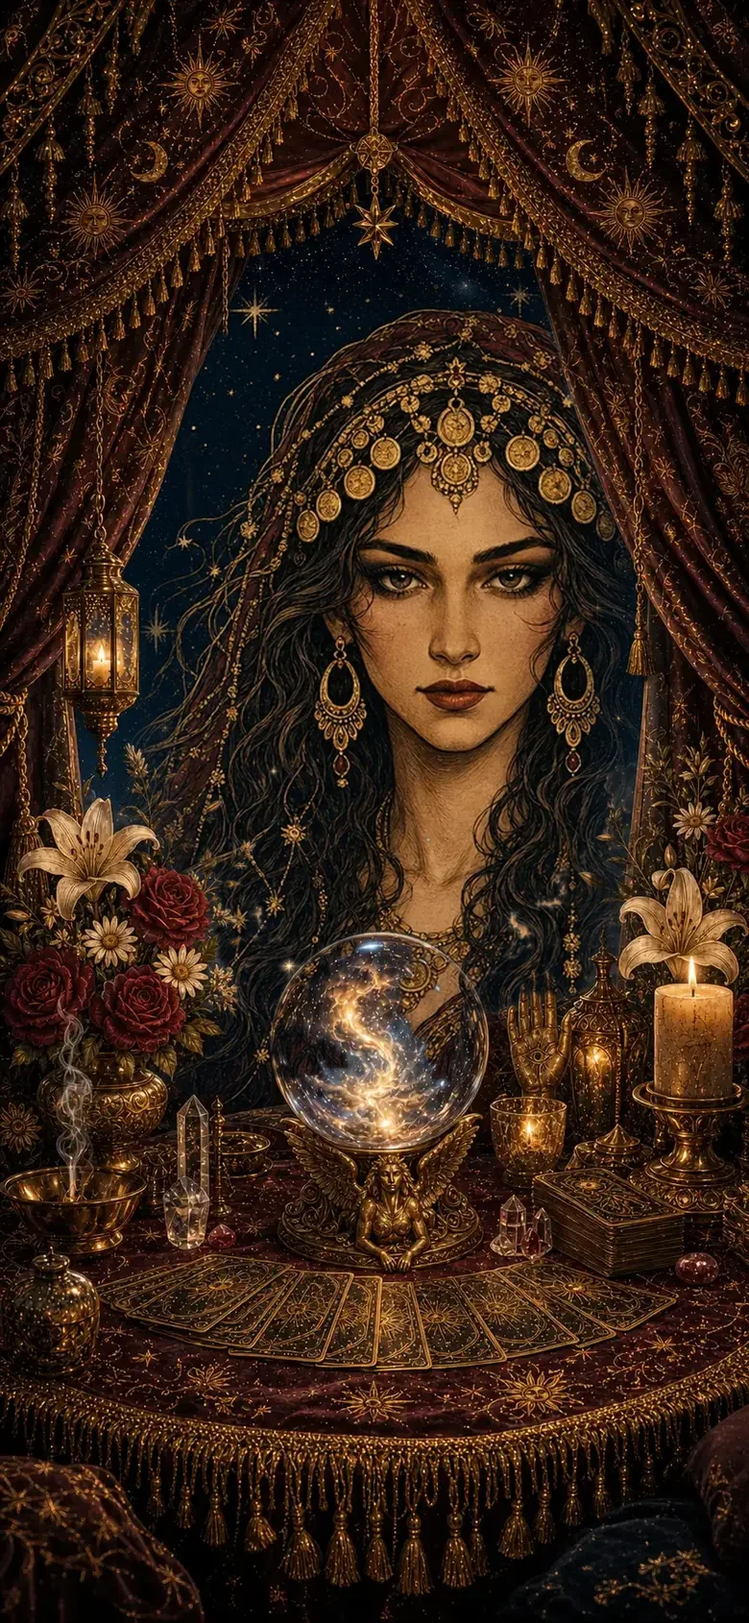
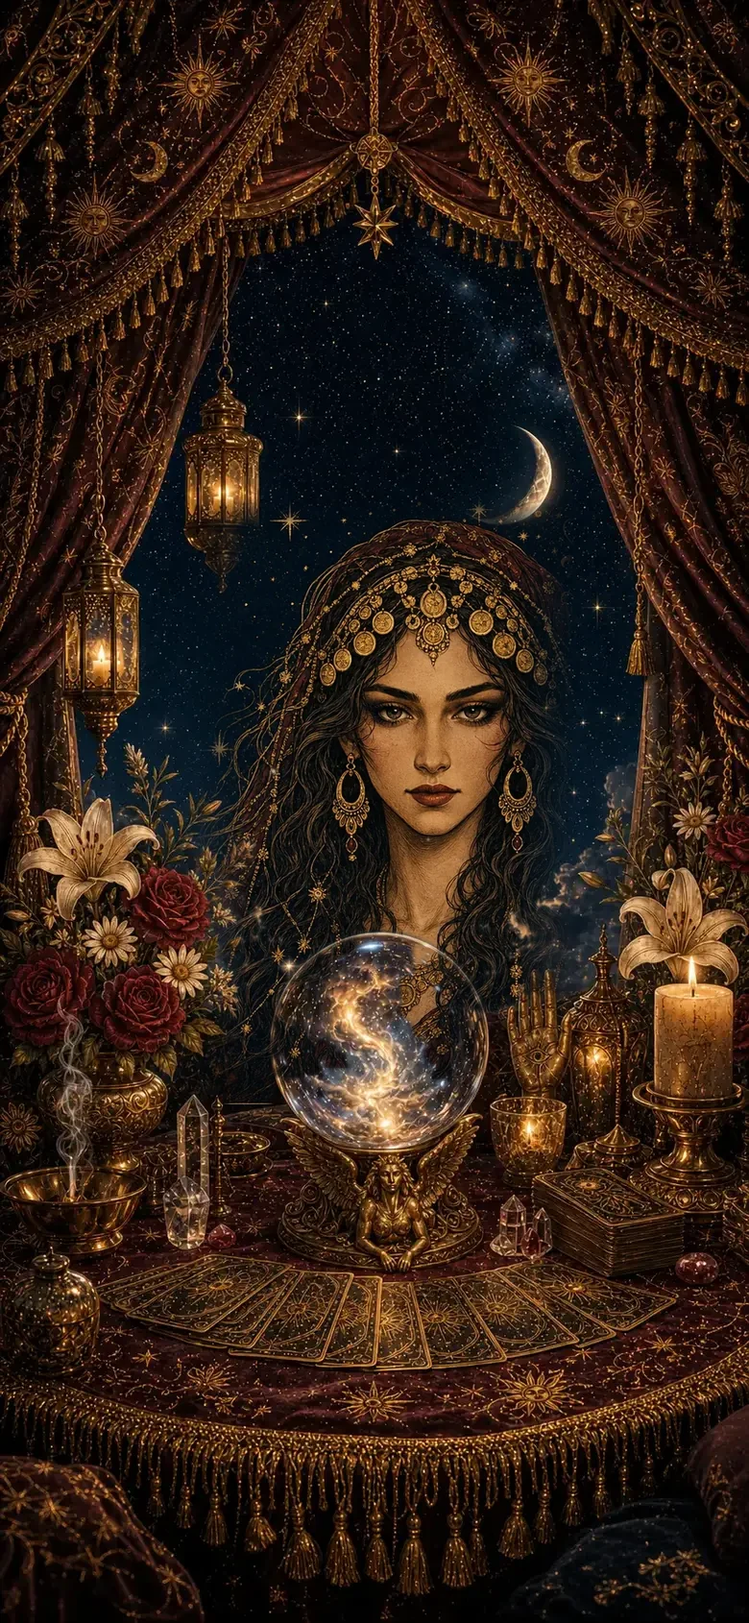
Kassandra with her hands on the crystal ball (art/atlas/kas-scene2), the ball's light and gleam set on it; the fog made magical: drifting lilac and gold mist with an iridescent shimmer, rising gold glitter and flaring stars, and a slower parting

Changed region(s): [[0.1846, 0.1538, 0.8308, 0.6769]]

diff --git a/public/art/sizes.js b/public/art/sizes.js
@@ -1,2 +1,2 @@
 /* generated by scripts/asset-manifest.mjs: [width, height, alpha] of every image under /art */
-window.KOSMIA_SIZES={"atlas/acct-foot":[850,295,0],"atlas/acct-mid":[850,120,0],"atlas/acct-night":[850,1475,0],"atlas/acct-top":[850,511,0],"atlas/affinity-bg":[780,1386,0],"atlas/aw-clouds":[960,134,1],"atlas/aw-foot":[850,1004,0],"atlas/aw-top":[1269,846,0],"atlas/banner-calendar":[760,506,0],"atlas/banner-library":[760,506,0],"atlas/birth-bg":[780,1690,0],"atlas/cal-scene":[1100,733,0],"atlas/calendar-bg":[780,1690,0],"atlas/ce-vignette":[480,720,0],"atlas/chart-bg":[780,1698,0],"atlas/cycles-bg":[780,1690,0],"atlas/disc-night":[898,1752,0],"atlas/dream-bg":[780,1690,0],"atlas/dream-night":[941,1672,0],"atlas/dreamjournal-bg":[780,1690,0],"atlas/ds-death":[560,560,0],"atlas/ds-flying":[560,560,0],"atlas/ds-house":[560,560,0],"atlas/ds-snake":[560,560,0],"atlas/ds-water":[560,560,0],"atlas/ev-eclipse":[720,480,0],"atlas/ev-full":[720,480,0],"atlas/ev-meteor":[720,480,0],"atlas/ev-new":[720,480,0],"atlas/ev-planet":[720,480,0],"atlas/ev-quarter":[720,480,0],"atlas/ev-sun":[720,480,0],"atlas/events-bg":[780,1690,0],"atlas/ex-chart":[560,560,0],"atlas/ex-compat":[560,560,0],"atlas/ex-lifepath":[560,560,0],"atlas/ex-name":[560,560,0],"atlas/ex-resonance":[560,560,0],"atlas/fg-aquarius":[1024,1024,1],"atlas/fg-aries":[1024,1024,1],"atlas/fg-cancer":[1024,1024,1],"atlas/fg-capricorn":[1024,1024,1],"atlas/fg-gemini":[1024,1024,1],"atlas/fg-leo":[1024,1024,1],"atlas/fg-libra":[1024,1024,1],"atlas/fg-pisces":[1024,1024,1],"atlas/fg-sagittarius":[1024,1024,1],"atlas/fg-scorpio":[1024,1024,1],"atlas/fg-taurus":[1024,1024,1],"atlas/fg-virgo":[1024,1024,1],"atlas/hero-affinity":[1100,733,0],"atlas/hero-chart":[1100,733,0],"atlas/hero-discover":[1024,1024,0],"atlas/hero-dream":[1100,733,0],"atlas/hero-horoscope":[1024,1024,0],"atlas/hero-insights":[1100,733,0],"atlas/hero-journal":[1024,1024,0],"atlas/hero-lifepath":[1100,733,0],"atlas/hero-name":[1100,733,0],"atlas/hero-tarot":[1024,1024,0],"atlas/history-bg":[780,1698,0],"atlas/hland-night":[850,1850,0],"atlas/home-bar":[1200,321,0],"atlas/home-bay":[941,1672,0],"atlas/home-energy":[1200,800,0],"atlas/home-garden":[720,1080,0],"atlas/home-halo":[560,560,1],"atlas/home-lake":[720,1080,0],"atlas/home-night":[720,1619,0],"atlas/home-night2":[850,1850,0],"atlas/home-sky":[1024,1536,0],"atlas/home-sun":[960,640,0],"atlas/home-vines":[720,1080,0],"atlas/hsh-aquarius":[1100,733,0],"atlas/hsh-aries":[1100,733,0],"atlas/hsh-cancer":[1100,733,0],"atlas/hsh-capricorn":[1100,733,0],"atlas/hsh-gemini":[1100,733,0],"atlas/hsh-leo":[1100,733,0],"atlas/hsh-libra":[1100,733,0],"atlas/hsh-pisces":[1100,733,0],"atlas/hsh-sagittarius":[1100,733,0],"atlas/hsh-scorpio":[1100,733,0],"atlas/hsh-taurus":[1100,733,0],"atlas/hsh-virgo":[1100,733,0],"atlas/hsp-garland-l":[520,1720,1],"atlas/hsp-garland-r":[520,1720,1],"atlas/hsp-lily":[520,1600,1],"atlas/hsp-vine":[210,560,1],"atlas/hz-career":[360,360,1],"atlas/hz-family":[360,360,1],"atlas/hz-health":[360,360,1],"atlas/hz-love":[360,360,1],"atlas/hz-money":[360,360,1],"atlas/hz-overview":[360,360,1],"atlas/ico-career":[275,320,1],"atlas/ico-family":[270,320,1],"atlas/ico-health":[281,320,1],"atlas/ico-love":[319,320,1],"atlas/ico-money":[262,320,1],"atlas/ico-overview":[282,320,1],"atlas/jcal-bg":[780,1690,0],"atlas/jen-mid":[850,1120,0],"atlas/jen-night":[850,1850,0],"atlas/journal-bg":[780,1698,0],"atlas/journal-end":[640,960,0],"atlas/jrn-mid":[850,1580,0],"atlas/jrn-night":[850,1850,0],"atlas/kas-scene":[780,1690,0],"atlas/kassandra-banner":[1100,733,0],"atlas/kassandra-bg":[780,1690,0],"atlas/kassandra":[760,760,0],"atlas/landscape":[1100,733,0],"atlas/library-bg":[780,1690,0],"atlas/lifepath-bg":[780,1690,0],"atlas/med-aquarius":[560,560,0],"atlas/med-aries":[560,560,0],"atlas/med-cancer":[560,560,0],"atlas/med-capricorn":[560,560,0],"atlas/med-gemini":[560,560,0],"atlas/med-leo":[560,560,0],"atlas/med-libra":[560,560,0],"atlas/med-pisces":[560,560,0],"atlas/med-sagittarius":[560,560,0],"atlas/med-scorpio":[560,560,0],"atlas/med-taurus":[560,560,0],"atlas/med-virgo":[560,560,0],"atlas/moon-bg":[780,1698,0],"atlas/name-bg":[780,1690,0],"atlas/nav-discover":[314,320,1],"atlas/nav-home":[267,320,1],"atlas/nav-horoscope":[295,320,1],"atlas/nav-kassandra":[319,320,1],"atlas/nav-tarot":[270,320,1],"atlas/ne-card":[230,320,1],"atlas/ne-free":[269,320,1],"atlas/newdream-bg":[780,1690,0],"atlas/nvi-discover":[512,512,1],"atlas/nvi-home":[512,512,1],"atlas/nvi-horoscope":[512,512,1],"atlas/nvi-kassandra":[512,512,1],"atlas/nvi-tarot":[512,512,1],"atlas/nvm-discover":[160,160,1],"atlas/nvm-home":[160,160,1],"atlas/nvm-horoscope":[160,160,1],"atlas/nvm-kassandra":[160,160,1],"atlas/nvm-tarot":[160,160,1],"atlas/ob-crescent":[1200,800,0],"atlas/ob-final":[1200,800,0],"atlas/ob-intro2":[850,1850,0],"atlas/ob-sunset-blooms":[960,1440,1],"atlas/ob-sunset":[960,1440,0],"atlas/ob-welcome":[1024,1536,0],"atlas/ob-welcome2":[851,1849,0],"atlas/ob-woman":[1200,800,0],"atlas/obm-dream":[192,192,0],"atlas/obm-moon":[192,192,0],"atlas/obm-star":[192,192,0],"atlas/obm-sun":[192,192,0],"atlas/obm-tarot":[192,192,0],"atlas/owl":[1100,733,0],"atlas/planets-bg":[780,1698,0],"atlas/plate-aquarius":[640,960,0],"atlas/plate-aries":[640,960,0],"atlas/plate-cancer":[640,960,0],"atlas/plate-capricorn":[640,960,0],"atlas/plate-gemini":[640,960,0],"atlas/plate-leo":[640,960,0],"atlas/plate-libra":[640,960,0],"atlas/plate-pisces":[640,960,0],"atlas/plate-sagittarius":[640,960,0],"atlas/plate-scorpio":[640,960,0],"atlas/plate-taurus":[640,960,0],"atlas/plate-virgo":[640,960,0],"atlas/profile-bg":[780,1698,0],"atlas/reading-bg":[780,1698,0],"atlas/reading-night":[850,1850,0],"atlas/resonance-bg":[780,1698,0],"atlas/settings-bg":[780,1690,0],"atlas/sgm-aquarius":[320,320,1],"atlas/sgm-aries":[320,320,1],"atlas/sgm-cancer":[320,320,1],"atlas/sgm-capricorn":[320,320,1],"atlas/sgm-gemini":[320,320,1],"atlas/sgm-leo":[320,320,1],"atlas/sgm-libra":[320,320,1],"atlas/sgm-pisces":[320,320,1],"atlas/sgm-sagittarius":[320,320,1],"atlas/sgm-scorpio":[320,320,1],"atlas/sgm-taurus":[320,320,1],"atlas/sgm-virgo":[320,320,1],"atlas/sgmw-cancer":[354,258,1],"atlas/sgmw-capricorn":[444,214,1],"atlas/sign-mid":[849,1580,0],"atlas/sign-night":[850,1850,0],"atlas/sign-sky":[849,1853,0],"atlas/synastry-bg":[780,1690,0],"atlas/t-history":[307,320,1],"atlas/t-journal":[315,320,1],"atlas/t-reading":[269,320,1],"atlas/t-whisper":[315,320,1],"atlas/tarot-night":[850,1850,0],"atlas/wb-foot":[850,341,0],"atlas/wb-mid":[850,120,0],"atlas/wb-night":[850,1475,0],"atlas/wb-sun":[1400,933,0],"atlas/wb-top":[850,538,0],"atlas/welcome":[640,960,0],"atlas/whisper-bg":[780,1698,0],"atlas/zm-aquarius":[400,400,0],"atlas/zm-aries":[400,400,0],"atlas/zm-cancer":[400,400,0],"atlas/zm-capricorn":[400,400,0],"atlas/zm-gemini":[400,400,0],"atlas/zm-leo":[400,400,0],"atlas/zm-libra":[400,400,0],"atlas/zm-pisces":[400,400,0],"atlas/zm-sagittarius":[400,400,0],"atlas/zm-scorpio":[400,400,0],"atlas/zm-taurus":[400,400,0],"atlas/zm-virgo":[400,400,0],"atlas/zs-bg":[780,1698,0],"atlas/zs-night":[850,1850,0],"cards/back":[600,900,0],"cards/cartouche":[640,640,1],"cards/crest":[144,67,1],"cards/kassandra-float":[278,300,1],"cards/kassandra":[480,480,0],"cards/ornament":[144,53,1],"cards/plaque":[1024,432,1],"cards/tarot-back-night":[600,900,0],"cards/tarot-back-wine":[600,900,0],"cards/tarot-back":[600,900,1],"cats/aspects":[160,160,1],"cats/calendar":[160,160,1],"cats/career":[160,160,1],"cats/chart":[160,160,1],"cats/collection":[160,160,1],"cats/connections":[160,160,1],"cats/cycles":[160,160,1],"cats/deck":[160,160,1],"cats/family":[160,160,1],"cats/finance":[160,160,1],"cats/general":[160,160,1],"cats/health":[160,160,1],"cats/history":[160,160,1],"cats/insights":[160,160,1],"cats/lifepath":[160,160,1],"cats/love":[160,160,1],"cats/match":[160,160,1],"cats/moon":[160,160,1],"cats/namewithin":[160,160,1],"cats/new":[160,160,1],"cats/notifications":[160,160,1],"cats/planetary":[160,160,1],"cats/planets":[160,160,1],"cats/prefs":[160,160,1],"cats/privacy":[160,160,1],"cats/profile":[160,160,1],"cats/reflections":[160,160,1],"cats/resonance":[160,160,1],"cats/saved":[160,160,1],"cats/settings":[160,160,1],"cats/spreads":[160,160,1],"cats/today":[160,160,1],"cats/upcoming":[160,160,1],"cosmos":[768,1152,0],"deck/c1":[720,1080,0],"deck/c10":[720,1080,0],"deck/c11":[720,1080,0],"deck/c12":[720,1080,0],"deck/c13":[720,1080,0],"deck/c14":[720,1080,0],"deck/c2":[720,1080,0],"deck/c3":[720,1080,0],"deck/c4":[720,1080,0],"deck/c5":[720,1080,0],"deck/c6":[720,1080,0],"deck/c7":[720,1080,0],"deck/c8":[720,1080,0],"deck/c9":[720,1080,0],"deck/m0":[720,1080,0],"deck/m1":[720,1080,0],"deck/m10":[720,1080,0],"deck/m11":[720,1080,0],"deck/m12":[720,1080,0],"deck/m13":[720,1080,0],"deck/m14":[720,1080,0],"deck/m15":[720,1080,0],"deck/m16":[720,1080,0],"deck/m17":[720,1080,0],"deck/m18":[720,1080,0],"deck/m19":[720,1080,0],"deck/m2":[720,1080,0],"deck/m20":[720,1080,0],"deck/m21":[720,1080,0],"deck/m3":[720,1080,0],"deck/m4":[720,1080,0],"deck/m5":[720,1080,0],"deck/m6":[720,1080,0],"deck/m7":[720,1080,0],"deck/m8":[720,1080,0],"deck/m9":[720,1080,0],"deck/p1":[720,1080,0],"deck/p10":[720,1080,0],"deck/p11":[720,1080,0],"deck/p12":[720,1080,0],"deck/p13":[720,1080,0],"deck/p14":[720,1080,0],"deck/p2":[720,1080,0],"deck/p3":[720,1080,0],"deck/p4":[720,1080,0],"deck/p5":[720,1080,0],"deck/p6":[720,1080,0],"deck/p7":[720,1080,0],"deck/p8":[720,1080,0],"deck/p9":[720,1080,0],"deck/s1":[720,1080,0],"deck/s10":[720,1080,0],"deck/s11":[720,1080,0],"deck/s12":[720,1080,0],"deck/s13":[720,1080,0],"deck/s14":[720,1080,0],"deck/s2":[720,1080,0],"deck/s3":[720,1080,0],"deck/s4":[720,1080,0],"deck/s5":[720,1080,0],"deck/s6":[720,1080,0],"deck/s7":[720,1080,0],"deck/s8":[720,1080,0],"deck/s9":[720,1080,0],"deck/w1":[720,1080,0],"deck/w10":[720,1080,0],"deck/w11":[720,1080,0],"deck/w12":[720,1080,0],"deck/w13":[720,1080,0],"deck/w14":[720,1080,0],"deck/w2":[720,1080,0],"deck/w3":[720,1080,0],"deck/w4":[720,1080,0],"deck/w5":[720,1080,0],"deck/w6":[720,1080,0],"deck/w7":[720,1080,0],"deck/w8":[720,1080,0],"deck/w9":[720,1080,0],"frame-paper":[944,600,0],"frame":[1024,1536,0],"icons/aquarius":[256,256,1],"icons/aries":[256,256,1],"icons/cancer":[256,256,1],"icons/capricorn":[256,256,1],"icons/gemini":[256,256,1],"icons/leo":[256,256,1],"icons/libra":[256,256,1],"icons/pisces":[256,256,1],"icons/sagittarius":[256,256,1],"icons/scorpio":[256,256,1],"icons/taurus":[256,256,1],"icons/virgo":[256,256,1],"moons/first-quarter":[420,420,1],"moons/full-moon":[420,420,1],"moons/last-quarter":[420,420,1],"moons/new-moon":[420,420,1],"moons/waning-crescent":[420,420,1],"moons/waning-gibbous":[420,420,1],"moons/waxing-crescent":[420,420,1],"moons/waxing-gibbous":[420,420,1],"nav/calendar":[128,128,1],"nav/chart":[128,128,1],"nav/fortune":[128,128,1],"nav/home":[128,128,1],"nav/horoscopes":[128,128,1],"nav/love":[128,128,1],"nav/tarot":[128,128,1],"nav/universe":[128,128,1],"onboarding-paper":[1024,234,0],"onboarding":[1024,1536,0],"pages/compass-rose":[1024,1536,0],"pages/cover":[1024,1536,0],"pages/edge-h":[768,512,0],"pages/edge-v":[512,768,0],"pages/moon-phases":[1024,1536,0],"pages/night-sky":[1024,1536,0],"pages/pressed-roses":[1024,1536,0],"pages/sleeping-moon":[1024,1536,0],"pages/sun-face":[1024,1536,0],"plates/astro":[1024,683,0],"plates/connections":[1024,683,0],"plates/cycles":[1024,683,0],"plates/events":[1024,683,0],"plates/ins-astro":[1024,683,0],"plates/ins-numbers":[1024,683,0],"plates/ins-oracle":[1024,683,0],"plates/lifepath":[1024,683,0],"plates/locket":[1024,683,0],"plates/moon":[1024,683,0],"plates/name":[1024,683,0],"plates/natal":[1024,683,0],"plates/numbers":[1024,683,0],"plates/oracle":[1024,683,0],"plates/orrery":[1024,683,0],"plates/readings":[1024,683,0],"plates/sky":[1024,683,0],"plates/starmap":[1024,683,0],"plates/sunmoon":[1024,683,0],"plates/synastry":[1024,683,0],"scenes/aquarius":[768,1152,0],"scenes/aries":[768,1152,0],"scenes/cancer":[768,1152,0],"scenes/capricorn":[768,1152,0],"scenes/gemini":[768,1152,0],"scenes/leo":[768,1152,0],"scenes/libra":[768,1152,0],"scenes/pisces":[768,1152,0],"scenes/sagittarius":[768,1152,0],"scenes/scorpio":[768,1152,0],"scenes/taurus":[768,1152,0],"scenes/virgo":[768,1152,0],"share/horo":[1080,1521,0],"share/t10":[1080,1676,0],"share/t3":[1080,1676,0],"share/t5":[1080,1671,0],"share/tarot":[1080,1521,0],"share/whisper":[1080,1517,0],"spreads/career":[192,192,1],"spreads/celtic":[192,192,1],"spreads/love":[192,192,1],"spreads/one":[192,192,1],"spreads/ppf":[192,192,1],"spreads/scg":[192,192,1],"whispers/butterfly":[720,1080,0],"whispers/clear-crystal":[720,1080,0],"whispers/crossroads":[720,1080,0],"whispers/daily-bread":[720,1080,0],"whispers/dawn-chorus":[720,1080,0],"whispers/deep-roots":[720,1080,0],"whispers/distant-ship":[720,1080,0],"whispers/fairy-ring":[720,1080,0],"whispers/first-light":[720,1080,0],"whispers/gentle-rain":[720,1080,0],"whispers/golden-hour":[720,1080,0],"whispers/golden-key":[720,1080,0],"whispers/hidden-garden":[720,1080,0],"whispers/inner-key":[720,1080,0],"whispers/late-bloom":[720,1080,0],"whispers/lighthouse":[720,1080,0],"whispers/music-box":[720,1080,0],"whispers/nightingale":[720,1080,0],"whispers/north-star":[720,1080,0],"whispers/old-tree":[720,1080,0],"whispers/open-door":[720,1080,0],"whispers/open-path":[720,1080,0],"whispers/quiet-harvest":[720,1080,0],"whispers/quiet-moon":[720,1080,0],"whispers/returning-tide":[720,1080,0],"whispers/rising-sun":[720,1080,0],"whispers/sacred-flame":[720,1080,0],"whispers/sanctuary":[720,1080,0],"whispers/sealed-letter":[720,1080,0],"whispers/silver-thread":[720,1080,0],"whispers/snow-tracks":[720,1080,0],"whispers/stargazer":[720,1080,0],"whispers/steady-star":[720,1080,0],"whispers/stepping-stones":[720,1080,0],"whispers/still-water":[720,1080,0],"whispers/the-anchor":[720,1080,0],"whispers/the-aurora":[720,1080,0],"whispers/the-balloon":[720,1080,0],"whispers/the-bell":[720,1080,0],"whispers/the-bench":[720,1080,0],"whispers/the-birdcage":[720,1080,0],"whispers/the-blossom":[720,1080,0],"whispers/the-bridge":[720,1080,0],"whispers/the-cairn":[720,1080,0],"whispers/the-chalice":[720,1080,0],"whispers/the-comet":[720,1080,0],"whispers/the-compass":[720,1080,0],"whispers/the-dandelion":[720,1080,0],"whispers/the-eclipse":[720,1080,0],"whispers/the-ember":[720,1080,0],"whispers/the-feather":[720,1080,0],"whispers/the-fox":[720,1080,0],"whispers/the-frost":[720,1080,0],"whispers/the-hare":[720,1080,0],"whispers/the-harp":[720,1080,0],"whispers/the-hearth":[720,1080,0],"whispers/the-hedgerow":[720,1080,0],"whispers/the-heron":[720,1080,0],"whispers/the-hive":[720,1080,0],"whispers/the-hourglass":[720,1080,0],"whispers/the-kingfisher":[720,1080,0],"whispers/the-kite":[720,1080,0],"whispers/the-labyrinth":[720,1080,0],"whispers/the-lantern":[720,1080,0],"whispers/the-lotus":[720,1080,0],"whispers/the-mirror":[720,1080,0],"whispers/the-moth":[720,1080,0],"whispers/the-mountain":[720,1080,0],"whispers/the-nautilus":[720,1080,0],"whispers/the-nest":[720,1080,0],"whispers/the-orchard":[720,1080,0],"whispers/the-owl":[720,1080,0],"whispers/the-phoenix":[720,1080,0],"whispers/the-pinecone":[720,1080,0],"whispers/the-pomegranate":[720,1080,0],"whispers/the-river":[720,1080,0],"whispers/the-scales":[720,1080,0],"whispers/the-seed":[720,1080,0],"whispers/the-snail":[720,1080,0],"whispers/the-snowdrop":[720,1080,0],"whispers/the-spiral":[720,1080,0],"whispers/the-stag":[720,1080,0],"whispers/the-stile":[720,1080,0],"whispers/the-sundial":[720,1080,0],"whispers/the-swan":[720,1080,0],"whispers/the-swing":[720,1080,0],"whispers/the-tapestry":[720,1080,0],"whispers/the-waterfall":[720,1080,0],"whispers/the-weaver":[720,1080,0],"whispers/the-web":[720,1080,0],"whispers/the-well":[720,1080,0],"whispers/the-whale":[720,1080,0],"whispers/the-willow":[720,1080,0],"whispers/the-wind":[720,1080,0],"whispers/turning-wheel":[720,1080,0],"whispers/two-moons":[720,1080,0],"whispers/watchful-eye":[720,1080,0],"whispers/white-lily":[720,1080,0],"whispers/wild-geese":[720,1080,0],"whispers/wild-horse":[720,1080,0]};
+window.KOSMIA_SIZES={"atlas/acct-foot":[850,295,0],"atlas/acct-mid":[850,120,0],"atlas/acct-night":[850,1475,0],"atlas/acct-top":[850,511,0],"atlas/affinity-bg":[780,1386,0],"atlas/aw-clouds":[960,134,1],"atlas/aw-foot":[850,1004,0],"atlas/aw-top":[1269,846,0],"atlas/banner-calendar":[760,506,0],"atlas/banner-library":[760,506,0],"atlas/birth-bg":[780,1690,0],"atlas/cal-scene":[1100,733,0],"atlas/calendar-bg":[780,1690,0],"atlas/ce-vignette":[480,720,0],"atlas/chart-bg":[780,1698,0],"atlas/cycles-bg":[780,1690,0],"atlas/disc-night":[898,1752,0],"atlas/dream-bg":[780,1690,0],"atlas/dream-night":[941,1672,0],"atlas/dreamjournal-bg":[780,1690,0],"atlas/ds-death":[560,560,0],"atlas/ds-flying":[560,560,0],"atlas/ds-house":[560,560,0],"atlas/ds-snake":[560,560,0],"atlas/ds-water":[560,560,0],"atlas/ev-eclipse":[720,480,0],"atlas/ev-full":[720,480,0],"atlas/ev-meteor":[720,480,0],"atlas/ev-new":[720,480,0],"atlas/ev-planet":[720,480,0],"atlas/ev-quarter":[720,480,0],"atlas/ev-sun":[720,480,0],"atlas/events-bg":[780,1690,0],"atlas/ex-chart":[560,560,0],"atlas/ex-compat":[560,560,0],"atlas/ex-lifepath":[560,560,0],"atlas/ex-name":[560,560,0],"atlas/ex-resonance":[560,560,0],"atlas/fg-aquarius":[1024,1024,1],"atlas/fg-aries":[1024,1024,1],"atlas/fg-cancer":[1024,1024,1],"atlas/fg-capricorn":[1024,1024,1],"atlas/fg-gemini":[1024,1024,1],"atlas/fg-leo":[1024,1024,1],"atlas/fg-libra":[1024,1024,1],"atlas/fg-pisces":[1024,1024,1],"atlas/fg-sagittarius":[1024,1024,1],"atlas/fg-scorpio":[1024,1024,1],"atlas/fg-taurus":[1024,1024,1],"atlas/fg-virgo":[1024,1024,1],"atlas/hero-affinity":[1100,733,0],"atlas/hero-chart":[1100,733,0],"atlas/hero-discover":[1024,1024,0],"atlas/hero-dream":[1100,733,0],"atlas/hero-horoscope":[1024,1024,0],"atlas/hero-insights":[1100,733,0],"atlas/hero-journal":[1024,1024,0],"atlas/hero-lifepath":[1100,733,0],"atlas/hero-name":[1100,733,0],"atlas/hero-tarot":[1024,1024,0],"atlas/history-bg":[780,1698,0],"atlas/hland-night":[850,1850,0],"atlas/home-bar":[1200,321,0],"atlas/home-bay":[941,1672,0],"atlas/home-energy":[1200,800,0],"atlas/home-garden":[720,1080,0],"atlas/home-halo":[560,560,1],"atlas/home-lake":[720,1080,0],"atlas/home-night":[720,1619,0],"atlas/home-night2":[850,1850,0],"atlas/home-sky":[1024,1536,0],"atlas/home-sun":[960,640,0],"atlas/home-vines":[720,1080,0],"atlas/hsh-aquarius":[1100,733,0],"atlas/hsh-aries":[1100,733,0],"atlas/hsh-cancer":[1100,733,0],"atlas/hsh-capricorn":[1100,733,0],"atlas/hsh-gemini":[1100,733,0],"atlas/hsh-leo":[1100,733,0],"atlas/hsh-libra":[1100,733,0],"atlas/hsh-pisces":[1100,733,0],"atlas/hsh-sagittarius":[1100,733,0],"atlas/hsh-scorpio":[1100,733,0],"atlas/hsh-taurus":[1100,733,0],"atlas/hsh-virgo":[1100,733,0],"atlas/hsp-garland-l":[520,1720,1],"atlas/hsp-garland-r":[520,1720,1],"atlas/hsp-lily":[520,1600,1],"atlas/hsp-vine":[210,560,1],"atlas/hz-career":[360,360,1],"atlas/hz-family":[360,360,1],"atlas/hz-health":[360,360,1],"atlas/hz-love":[360,360,1],"atlas/hz-money":[360,360,1],"atlas/hz-overview":[360,360,1],"atlas/ico-career":[275,320,1],"atlas/ico-family":[270,320,1],"atlas/ico-health":[281,320,1],"atlas/ico-love":[319,320,1],"atlas/ico-money":[262,320,1],"atlas/ico-overview":[282,320,1],"atlas/jcal-bg":[780,1690,0],"atlas/jen-mid":[850,1120,0],"atlas/jen-night":[850,1850,0],"atlas/journal-bg":[780,1698,0],"atlas/journal-end":[640,960,0],"atlas/jrn-mid":[850,1580,0],"atlas/jrn-night":[850,1850,0],"atlas/kas-scene":[780,1690,0],"atlas/kas-scene2":[1086,1448,0],"atlas/kassandra-banner":[1100,733,0],"atlas/kassandra-bg":[780,1690,0],"atlas/kassandra":[760,760,0],"atlas/landscape":[1100,733,0],"atlas/library-bg":[780,1690,0],"atlas/lifepath-bg":[780,1690,0],"atlas/med-aquarius":[560,560,0],"atlas/med-aries":[560,560,0],"atlas/med-cancer":[560,560,0],"atlas/med-capricorn":[560,560,0],"atlas/med-gemini":[560,560,0],"atlas/med-leo":[560,560,0],"atlas/med-libra":[560,560,0],"atlas/med-pisces":[560,560,0],"atlas/med-sagittarius":[560,560,0],"atlas/med-scorpio":[560,560,0],"atlas/med-taurus":[560,560,0],"atlas/med-virgo":[560,560,0],"atlas/moon-bg":[780,1698,0],"atlas/name-bg":[780,1690,0],"atlas/nav-discover":[314,320,1],"atlas/nav-home":[267,320,1],"atlas/nav-horoscope":[295,320,1],"atlas/nav-kassandra":[319,320,1],"atlas/nav-tarot":[270,320,1],"atlas/ne-card":[230,320,1],"atlas/ne-free":[269,320,1],"atlas/newdream-bg":[780,1690,0],"atlas/nvi-discover":[512,512,1],"atlas/nvi-home":[512,512,1],"atlas/nvi-horoscope":[512,512,1],"atlas/nvi-kassandra":[512,512,1],"atlas/nvi-tarot":[512,512,1],"atlas/nvm-discover":[160,160,1],"atlas/nvm-home":[160,160,1],"atlas/nvm-horoscope":[160,160,1],"atlas/nvm-kassandra":[160,160,1],"atlas/nvm-tarot":[160,160,1],"atlas/ob-crescent":[1200,800,0],"atlas/ob-final":[1200,800,0],"atlas/ob-intro2":[850,1850,0],"atlas/ob-sunset-blooms":[960,1440,1],"atlas/ob-sunset":[960,1440,0],"atlas/ob-welcome":[1024,1536,0],"atlas/ob-welcome2":[851,1849,0],"atlas/ob-woman":[1200,800,0],"atlas/obm-dream":[192,192,0],"atlas/obm-moon":[192,192,0],"atlas/obm-star":[192,192,0],"atlas/obm-sun":[192,192,0],"atlas/obm-tarot":[192,192,0],"atlas/owl":[1100,733,0],"atlas/planets-bg":[780,1698,0],"atlas/plate-aquarius":[640,960,0],"atlas/plate-aries":[640,960,0],"atlas/plate-cancer":[640,960,0],"atlas/plate-capricorn":[640,960,0],"atlas/plate-gemini":[640,960,0],"atlas/plate-leo":[640,960,0],"atlas/plate-libra":[640,960,0],"atlas/plate-pisces":[640,960,0],"atlas/plate-sagittarius":[640,960,0],"atlas/plate-scorpio":[640,960,0],"atlas/plate-taurus":[640,960,0],"atlas/plate-virgo":[640,960,0],"atlas/profile-bg":[780,1698,0],"atlas/reading-bg":[780,1698,0],"atlas/reading-night":[850,1850,0],"atlas/resonance-bg":[780,1698,0],"atlas/settings-bg":[780,1690,0],"atlas/sgm-aquarius":[320,320,1],"atlas/sgm-aries":[320,320,1],"atlas/sgm-cancer":[320,320,1],"atlas/sgm-capricorn":[320,320,1],"atlas/sgm-gemini":[320,320,1],"atlas/sgm-leo":[320,320,1],"atlas/sgm-libra":[320,320,1],"atlas/sgm-pisces":[320,320,1],"atlas/sgm-sagittarius":[320,320,1],"atlas/sgm-scorpio":[320,320,1],"atlas/sgm-taurus":[320,320,1],"atlas/sgm-virgo":[320,320,1],"atlas/sgmw-cancer":[354,258,1],"atlas/sgmw-capricorn":[444,214,1],"atlas/sign-mid":[849,1580,0],"atlas/sign-night":[850,1850,0],"atlas/sign-sky":[849,1853,0],"atlas/synastry-bg":[780,1690,0],"atlas/t-history":[307,320,1],"atlas/t-journal":[315,320,1],"atlas/t-reading":[269,320,1],"atlas/t-whisper":[315,320,1],"atlas/tarot-night":[850,1850,0],"atlas/wb-foot":[850,341,0],"atlas/wb-mid":[850,120,0],"atlas/wb-night":[850,1475,0],"atlas/wb-sun":[1400,933,0],"atlas/wb-top":[850,538,0],"atlas/welcome":[640,960,0],"atlas/whisper-bg":[780,1698,0],"atlas/zm-aquarius":[400,400,0],"atlas/zm-aries":[400,400,0],"atlas/zm-cancer":[400,400,0],"atlas/zm-capricorn":[400,400,0],"atlas/zm-gemini":[400,400,0],"atlas/zm-leo":[400,400,0],"atlas/zm-libra":[400,400,0],"atlas/zm-pisces":[400,400,0],"atlas/zm-sagittarius":[400,400,0],"atlas/zm-scorpio":[400,400,0],"atlas/zm-taurus":[400,400,0],"atlas/zm-virgo":[400,400,0],"atlas/zs-bg":[780,1698,0],"atlas/zs-night":[850,1850,0],"cards/back":[600,900,0],"cards/cartouche":[640,640,1],"cards/crest":[144,67,1],"cards/kassandra-float":[278,300,1],"cards/kassandra":[480,480,0],"cards/ornament":[144,53,1],"cards/plaque":[1024,432,1],"cards/tarot-back-night":[600,900,0],"cards/tarot-back-wine":[600,900,0],"cards/tarot-back":[600,900,1],"cats/aspects":[160,160,1],"cats/calendar":[160,160,1],"cats/career":[160,160,1],"cats/chart":[160,160,1],"cats/collection":[160,160,1],"cats/connections":[160,160,1],"cats/cycles":[160,160,1],"cats/deck":[160,160,1],"cats/family":[160,160,1],"cats/finance":[160,160,1],"cats/general":[160,160,1],"cats/health":[160,160,1],"cats/history":[160,160,1],"cats/insights":[160,160,1],"cats/lifepath":[160,160,1],"cats/love":[160,160,1],"cats/match":[160,160,1],"cats/moon":[160,160,1],"cats/namewithin":[160,160,1],"cats/new":[160,160,1],"cats/notifications":[160,160,1],"cats/planetary":[160,160,1],"cats/planets":[160,160,1],"cats/prefs":[160,160,1],"cats/privacy":[160,160,1],"cats/profile":[160,160,1],"cats/reflections":[160,160,1],"cats/resonance":[160,160,1],"cats/saved":[160,160,1],"cats/settings":[160,160,1],"cats/spreads":[160,160,1],"cats/today":[160,160,1],"cats/upcoming":[160,160,1],"cosmos":[768,1152,0],"deck/c1":[720,1080,0],"deck/c10":[720,1080,0],"deck/c11":[720,1080,0],"deck/c12":[720,1080,0],"deck/c13":[720,1080,0],"deck/c14":[720,1080,0],"deck/c2":[720,1080,0],"deck/c3":[720,1080,0],"deck/c4":[720,1080,0],"deck/c5":[720,1080,0],"deck/c6":[720,1080,0],"deck/c7":[720,1080,0],"deck/c8":[720,1080,0],"deck/c9":[720,1080,0],"deck/m0":[720,1080,0],"deck/m1":[720,1080,0],"deck/m10":[720,1080,0],"deck/m11":[720,1080,0],"deck/m12":[720,1080,0],"deck/m13":[720,1080,0],"deck/m14":[720,1080,0],"deck/m15":[720,1080,0],"deck/m16":[720,1080,0],"deck/m17":[720,1080,0],"deck/m18":[720,1080,0],"deck/m19":[720,1080,0],"deck/m2":[720,1080,0],"deck/m20":[720,1080,0],"deck/m21":[720,1080,0],"deck/m3":[720,1080,0],"deck/m4":[720,1080,0],"deck/m5":[720,1080,0],"deck/m6":[720,1080,0],"deck/m7":[720,1080,0],"deck/m8":[720,1080,0],"deck/m9":[720,1080,0],"deck/p1":[720,1080,0],"deck/p10":[720,1080,0],"deck/p11":[720,1080,0],"deck/p12":[720,1080,0],"deck/p13":[720,1080,0],"deck/p14":[720,1080,0],"deck/p2":[720,1080,0],"deck/p3":[720,1080,0],"deck/p4":[720,1080,0],"deck/p5":[720,1080,0],"deck/p6":[720,1080,0],"deck/p7":[720,1080,0],"deck/p8":[720,1080,0],"deck/p9":[720,1080,0],"deck/s1":[720,1080,0],"deck/s10":[720,1080,0],"deck/s11":[720,1080,0],"deck/s12":[720,1080,0],"deck/s13":[720,1080,0],"deck/s14":[720,1080,0],"deck/s2":[720,1080,0],"deck/s3":[720,1080,0],"deck/s4":[720,1080,0],"deck/s5":[720,1080,0],"deck/s6":[720,1080,0],"deck/s7":[720,1080,0],"deck/s8":[720,1080,0],"deck/s9":[720,1080,0],"deck/w1":[720,1080,0],"deck/w10":[720,1080,0],"deck/w11":[720,1080,0],"deck/w12":[720,1080,0],"deck/w13":[720,1080,0],"deck/w14":[720,1080,0],"deck/w2":[720,1080,0],"deck/w3":[720,1080,0],"deck/w4":[720,1080,0],"deck/w5":[720,1080,0],"deck/w6":[720,1080,0],"deck/w7":[720,1080,0],"deck/w8":[720,1080,0],"deck/w9":[720,1080,0],"frame-paper":[944,600,0],"frame":[1024,1536,0],"icons/aquarius":[256,256,1],"icons/aries":[256,256,1],"icons/cancer":[256,256,1],"icons/capricorn":[256,256,1],"icons/gemini":[256,256,1],"icons/leo":[256,256,1],"icons/libra":[256,256,1],"icons/pisces":[256,256,1],"icons/sagittarius":[256,256,1],"icons/scorpio":[256,256,1],"icons/taurus":[256,256,1],"icons/virgo":[256,256,1],"moons/first-quarter":[420,420,1],"moons/full-moon":[420,420,1],"moons/last-quarter":[420,420,1],"moons/new-moon":[420,420,1],"moons/waning-crescent":[420,420,1],"moons/waning-gibbous":[420,420,1],"moons/waxing-crescent":[420,420,1],"moons/waxing-gibbous":[420,420,1],"nav/calendar":[128,128,1],"nav/chart":[128,128,1],"nav/fortune":[128,128,1],"nav/home":[128,128,1],"nav/horoscopes":[128,128,1],"nav/love":[128,128,1],"nav/tarot":[128,128,1],"nav/universe":[128,128,1],"onboarding-paper":[1024,234,0],"onboarding":[1024,1536,0],"pages/compass-rose":[1024,1536,0],"pages/cover":[1024,1536,0],"pages/edge-h":[768,512,0],"pages/edge-v":[512,768,0],"pages/moon-phases":[1024,1536,0],"pages/night-sky":[1024,1536,0],"pages/pressed-roses":[1024,1536,0],"pages/sleeping-moon":[1024,1536,0],"pages/sun-face":[1024,1536,0],"plates/astro":[1024,683,0],"plates/connections":[1024,683,0],"plates/cycles":[1024,683,0],"plates/events":[1024,683,0],"plates/ins-astro":[1024,683,0],"plates/ins-numbers":[1024,683,0],"plates/ins-oracle":[1024,683,0],"plates/lifepath":[1024,683,0],"plates/locket":[1024,683,0],"plates/moon":[1024,683,0],"plates/name":[1024,683,0],"plates/natal":[1024,683,0],"plates/numbers":[1024,683,0],"plates/oracle":[1024,683,0],"plates/orrery":[1024,683,0],"plates/readings":[1024,683,0],"plates/sky":[1024,683,0],"plates/starmap":[1024,683,0],"plates/sunmoon":[1024,683,0],"plates/synastry":[1024,683,0],"scenes/aquarius":[768,1152,0],"scenes/aries":[768,1152,0],"scenes/cancer":[768,1152,0],"scenes/capricorn":[768,1152,0],"scenes/gemini":[768,1152,0],"scenes/leo":[768,1152,0],"scenes/libra":[768,1152,0],"scenes/pisces":[768,1152,0],"scenes/sagittarius":[768,1152,0],"scenes/scorpio":[768,1152,0],"scenes/taurus":[768,1152,0],"scenes/virgo":[768,1152,0],"share/horo":[1080,1521,0],"share/t10":[1080,1676,0],"share/t3":[1080,1676,0],"share/t5":[1080,1671,0],"share/tarot":[1080,1521,0],"share/whisper":[1080,1517,0],"spreads/career":[192,192,1],"spreads/celtic":[192,192,1],"spreads/love":[192,192,1],"spreads/one":[192,192,1],"spreads/ppf":[192,192,1],"spreads/scg":[192,192,1],"whispers/butterfly":[720,1080,0],"whispers/clear-crystal":[720,1080,0],"whispers/crossroads":[720,1080,0],"whispers/daily-bread":[720,1080,0],"whispers/dawn-chorus":[720,1080,0],"whispers/deep-roots":[720,1080,0],"whispers/distant-ship":[720,1080,0],"whispers/fairy-ring":[720,1080,0],"whispers/first-light":[720,1080,0],"whispers/gentle-rain":[720,1080,0],"whispers/golden-hour":[720,1080,0],"whispers/golden-key":[720,1080,0],"whispers/hidden-garden":[720,1080,0],"whispers/inner-key":[720,1080,0],"whispers/late-bloom":[720,1080,0],"whispers/lighthouse":[720,1080,0],"whispers/music-box":[720,1080,0],"whispers/nightingale":[720,1080,0],"whispers/north-star":[720,1080,0],"whispers/old-tree":[720,1080,0],"whispers/open-door":[720,1080,0],"whispers/open-path":[720,1080,0],"whispers/quiet-harvest":[720,1080,0],"whispers/quiet-moon":[720,1080,0],"whispers/returning-tide":[720,1080,0],"whispers/rising-sun":[720,1080,0],"whispers/sacred-flame":[720,1080,0],"whispers/sanctuary":[720,1080,0],"whispers/sealed-letter":[720,1080,0],"whispers/silver-thread":[720,1080,0],"whispers/snow-tracks":[720,1080,0],"whispers/stargazer":[720,1080,0],"whispers/steady-star":[720,1080,0],"whispers/stepping-stones":[720,1080,0],"whispers/still-water":[720,1080,0],"whispers/the-anchor":[720,1080,0],"whispers/the-aurora":[720,1080,0],"whispers/the-balloon":[720,1080,0],"whispers/the-bell":[720,1080,0],"whispers/the-bench":[720,1080,0],"whispers/the-birdcage":[720,1080,0],"whispers/the-blossom":[720,1080,0],"whispers/the-bridge":[720,1080,0],"whispers/the-cairn":[720,1080,0],"whispers/the-chalice":[720,1080,0],"whispers/the-comet":[720,1080,0],"whispers/the-compass":[720,1080,0],"whispers/the-dandelion":[720,1080,0],"whispers/the-eclipse":[720,1080,0],"whispers/the-ember":[720,1080,0],"whispers/the-feather":[720,1080,0],"whispers/the-fox":[720,1080,0],"whispers/the-frost":[720,1080,0],"whispers/the-hare":[720,1080,0],"whispers/the-harp":[720,1080,0],"whispers/the-hearth":[720,1080,0],"whispers/the-hedgerow":[720,1080,0],"whispers/the-heron":[720,1080,0],"whispers/the-hive":[720,1080,0],"whispers/the-hourglass":[720,1080,0],"whispers/the-kingfisher":[720,1080,0],"whispers/the-kite":[720,1080,0],"whispers/the-labyrinth":[720,1080,0],"whispers/the-lantern":[720,1080,0],"whispers/the-lotus":[720,1080,0],"whispers/the-mirror":[720,1080,0],"whispers/the-moth":[720,1080,0],"whispers/the-mountain":[720,1080,0],"whispers/the-nautilus":[720,1080,0],"whispers/the-nest":[720,1080,0],"whispers/the-orchard":[720,1080,0],"whispers/the-owl":[720,1080,0],"whispers/the-phoenix":[720,1080,0],"whispers/the-pinecone":[720,1080,0],"whispers/the-pomegranate":[720,1080,0],"whispers/the-river":[720,1080,0],"whispers/the-scales":[720,1080,0],"whispers/the-seed":[720,1080,0],"whispers/the-snail":[720,1080,0],"whispers/the-snowdrop":[720,1080,0],"whispers/the-spiral":[720,1080,0],"whispers/the-stag":[720,1080,0],"whispers/the-stile":[720,1080,0],"whispers/the-sundial":[720,1080,0],"whispers/the-swan":[720,1080,0],"whispers/the-swing":[720,1080,0],"whispers/the-tapestry":[720,1080,0],"whispers/the-waterfall":[720,1080,0],"whispers/the-weaver":[720,1080,0],"whispers/the-web":[720,1080,0],"whispers/the-well":[720,1080,0],"whispers/the-whale":[720,1080,0],"whispers/the-willow":[720,1080,0],"whispers/the-wind":[720,1080,0],"whispers/turning-wheel":[720,1080,0],"whispers/two-moons":[720,1080,0],"whispers/watchful-eye":[720,1080,0],"whispers/white-lily":[720,1080,0],"whispers/wild-geese":[720,1080,0],"whispers/wild-horse":[720,1080,0]};

diff --git a/public/styles.css b/public/styles.css
@@ -3211,3 +3211,46 @@ html:has(:is(.hsp,.jnight,.mnp,.land.hnight,.land.tnight,.land.dnight,.land.drm)
 @keyframes kzThin{0%,60%{opacity:1}100%{opacity:0}}
 .kz.fog .kz-box{animation-duration:2.2s}
 #kzveil{z-index:90}
+
+/* the fog made magical: an iridescent shimmer turning slowly within it, and gold glitter rising and twinkling, with a
+   few four-pointed stars flaring, as the fog gathers and thins */
+#kzveil::before{background:radial-gradient(circle at 50% 45%,rgba(222,206,240,.95),rgba(150,128,190,.93) 45%,rgba(70,52,110,.96) 80%,rgba(36,26,62,.98))}
+#kzveil .kz-shim{position:absolute;inset:-25%;background:conic-gradient(from 0deg,rgba(255,226,160,.0),rgba(255,214,150,.35),rgba(190,170,255,.3),rgba(150,220,255,.22),rgba(255,190,220,.3),rgba(255,226,160,0));
+ filter:blur(40px);mix-blend-mode:screen;animation:kzShim 6s linear infinite;opacity:.9}
+@keyframes kzShim{to{transform:rotate(360deg)}}
+#kzveil b{position:absolute;width:var(--s);height:var(--s);margin:calc(var(--s) / -2) 0 0 calc(var(--s) / -2);border-radius:50%;
+ background:radial-gradient(circle,#FFF6DA 0,#F6D88E 35%,rgba(246,200,120,0) 70%);box-shadow:0 0 6px 1px rgba(255,226,160,.8);opacity:0;
+ animation:kzGlit var(--t) ease-in-out var(--d) infinite}
+#kzveil b.st{border-radius:0;background:none;box-shadow:none}
+#kzveil b.st::before,#kzveil b.st::after{content:'';position:absolute;left:50%;top:50%;width:100%;height:16%;transform:translate(-50%,-50%);border-radius:50%;
+ background:linear-gradient(90deg,transparent,#FFF3D0,transparent);box-shadow:0 0 8px 2px rgba(255,220,150,.7)}
+#kzveil b.st::after{transform:translate(-50%,-50%) rotate(90deg)}
+@keyframes kzGlit{0%{opacity:0;transform:translate(0,0) scale(.3)}35%{opacity:1;transform:translate(calc(var(--x) * .4),calc(var(--y) * .4)) scale(1)}60%{opacity:.35}80%{opacity:1}100%{opacity:0;transform:translate(var(--x),var(--y)) scale(.4)}}
+#kzveil.out b{animation-duration:calc(var(--t) * .8)}
+#kzveil.out .kz-shim{animation:kzShim 6s linear infinite,kzVeilOut 2.4s ease-out both}
+@media (prefers-reduced-motion:reduce){#kzveil b,#kzveil .kz-shim{animation:none;opacity:.6}}
+/* richer: drifting wisps of cloud through the fog, brighter glitter, and a slower parting */
+#kzveil .kz-wisp{position:absolute;left:-50%;right:-50%;height:38%;background:url(/art/atlas/aw-clouds.webp) 0 50%/60% auto repeat-x;opacity:.55;mix-blend-mode:screen;filter:blur(2px) saturate(.6) brightness(1.4)}
+#kzveil .kz-wisp.a{top:18%;animation:kzWisp 9s linear infinite}
+#kzveil .kz-wisp.b{top:58%;animation:kzWisp 12s linear infinite reverse;opacity:.45}
+@keyframes kzWisp{to{transform:translateX(30%)}}
+#kzveil b{box-shadow:0 0 10px 3px rgba(255,226,160,.85)}
+#kzveil b.st::before,#kzveil b.st::after{box-shadow:0 0 12px 3px rgba(255,226,170,.85)}
+#kzveil.in::before{animation-duration:1.3s}
+#kzveil.out{animation:kzThin 3.2s ease-out both}
+#kzveil.out::before{animation:kzVeilOut 3.2s cubic-bezier(.5,0,.6,1) both}
+#kzveil.out .kz-wisp{animation:kzWisp 9s linear infinite,kzVeilOut 3s ease-out both}
+@keyframes kzThin{0%,55%{opacity:1}100%{opacity:0}}
+.kz.fog .kz-box{animation-duration:3s}
+/* the wisps as soft drifting mist rather than drawn clouds */
+#kzveil .kz-wisp{left:-40%;right:-40%;height:70%;background:radial-gradient(ellipse 40% 30% at 30% 50%,rgba(255,244,230,.55),transparent 70%),radial-gradient(ellipse 35% 25% at 75% 40%,rgba(236,220,255,.5),transparent 70%),radial-gradient(ellipse 30% 22% at 55% 70%,rgba(255,230,190,.35),transparent 70%)!important;
+ filter:blur(26px)!important;opacity:.9!important;mix-blend-mode:screen}
+#kzveil .kz-wisp.a{top:-10%}
+#kzveil .kz-wisp.b{top:40%}
+@keyframes kzWisp{0%{transform:translateX(-8%) scale(1)}50%{transform:translateX(8%) scale(1.08)}100%{transform:translateX(-8%) scale(1)}}
+/* Kassandra with her hands over the crystal ball (art/atlas/kas-scene2, 1086 × 1448; the ball at (541,883) r 169): the
+   painting from the top of the screen, fading into the night beneath, the ball near the middle of the screen */
+.kz{--u:calc(var(--w) / 1086);--top:min(0px,calc(46svh - var(--w) * .813))}
+.kz-img{-webkit-mask-image:linear-gradient(#000 84%,transparent);mask-image:linear-gradient(#000 84%,transparent)}
+.kz-glow,.kz-sweep{left:calc(var(--u) * 372);top:calc(var(--u) * 714);width:calc(var(--u) * 338);height:calc(var(--u) * 338)}
+.kz-talk{padding-top:calc(var(--top) + var(--w) * 1.0 + 6px)}

diff --git a/public/app.js b/public/app.js
@@ -2086,12 +2086,12 @@ function kasGreet(){
 // thins away from the centre
 function kasVeil(open){
  if(S.settings.reduce||matchMedia('(prefers-reduced-motion: reduce)').matches)return open();
- let v=$('#kzveil');if(v)v.remove();v=document.createElement('div');v.id='kzveil';v.className='kz-fog in';v.setAttribute('aria-hidden','true');v.innerHTML='<i></i><i></i><i></i><i></i><i></i>';document.body.appendChild(v);
- setTimeout(()=>{V.kasFogged=true;open();requestAnimationFrame(()=>{v.className='kz-fog out';setTimeout(()=>v.remove(),2600)})},1150)}
+ let v=$('#kzveil');if(v)v.remove();v=document.createElement('div');v.id='kzveil';v.className='kz-fog in';v.setAttribute('aria-hidden','true');v.innerHTML='<i></i><i></i><i></i><i></i><i></i><em class="kz-shim"></em><u class="kz-wisp a"></u><u class="kz-wisp b"></u>'+Array.from({length:130},()=>{const r=Math.random,big=r()<.22;return `<b style="left:${(r()*100).toFixed(1)}%;top:${(r()*100).toFixed(1)}%;--s:${(big?14+r()*16:3+r()*6).toFixed(1)}px;--d:${(r()*2.2).toFixed(2)}s;--t:${(1.2+r()*1.6).toFixed(2)}s;--x:${((r()-.5)*60).toFixed(0)}px;--y:${(-20-r()*70).toFixed(0)}px" class="${big?'st':''}"></b>`}).join('');document.body.appendChild(v);
+ setTimeout(()=>{V.kasFogged=true;open();requestAnimationFrame(()=>{v.className='kz-fog out';setTimeout(()=>v.remove(),3400)})},1300)}
 function kasScene(){
  const signed=!!C.user,rec=KS.state,has=KS.msgs.length>0,on=KS.target==='kas',fog=V.prevSec!=='kassandra'&&(V.kasFogged?(V.kasFogged=false,'veil'):true),[greet,prs]=kasGreet();V.kasGreet=greet;
  const words=greet.split(' ').map((w,i)=>`<span style="--d:${(fog?3.1:.2)+i*.07}s">${esc(w)}</span>`).join(' ');
- return `<div class="kz${fog?' fog':''}"><div class="kz-sky" aria-hidden="true"></div><div class="kz-box" aria-hidden="true">${ui('kas-scene','kz-img','',true)}<i class="kz-glow"></i><i class="kz-sweep"></i></div>
+ return `<div class="kz${fog?' fog':''}"><div class="kz-sky" aria-hidden="true"></div><div class="kz-box" aria-hidden="true">${ui('kas-scene2','kz-img','',true)}<i class="kz-glow"></i><i class="kz-sweep"></i></div>
  ${fog===true?'<div class="kz-fog" aria-hidden="true"><i></i><i></i><i></i><i></i><i></i></div>':''}
  <div class="kz-corner">${iconBtn('history','data-go="kassandra" data-t="history"','Past conversations')}${jdoor()}</div>
  <div class="kz-talk"><div class="kz-card">

diff --git a/docs/asset-manifest.md b/docs/asset-manifest.md
@@ -7,8 +7,8 @@ their space before they load.
 
 | | Count |
 |---|---|
-| Images | 530 |
-| In use, provisional | 486 |
+| Images | 531 |
+| In use, provisional | 487 |
 | Unused | 44 |
 | Missing (listed below) | 10 groups |
 
@@ -47,7 +47,8 @@ their space before they load.
 | `public/art/atlas/jen-night.webp` | 850×1850 | 0.46:1 | no | 250 | provisional |  |
 | `public/art/atlas/jrn-mid.webp` | 850×1580 | 0.54:1 | no | 166 | provisional |  |
 | `public/art/atlas/jrn-night.webp` | 850×1850 | 0.46:1 | no | 269 | provisional |  |
-| `public/art/atlas/kas-scene.webp` | 780×1690 | 6:13 | no | 373 | provisional |  |
+| `public/art/atlas/kas-scene.webp` | 780×1690 | 6:13 | no | 359 | provisional |  |
+| `public/art/atlas/kas-scene2.webp` | 1086×1448 | 3:4 | no | 399 | provisional |  |
 | `public/art/atlas/nvi-discover.webp` | 512×512 | 1:1 | yes | 52 | provisional |  |
 | `public/art/atlas/nvi-home.webp` | 512×512 | 1:1 | yes | 118 | provisional |  |
 | `public/art/atlas/nvi-horoscope.webp` | 512×512 | 1:1 | yes | 86 | provisional |  |
